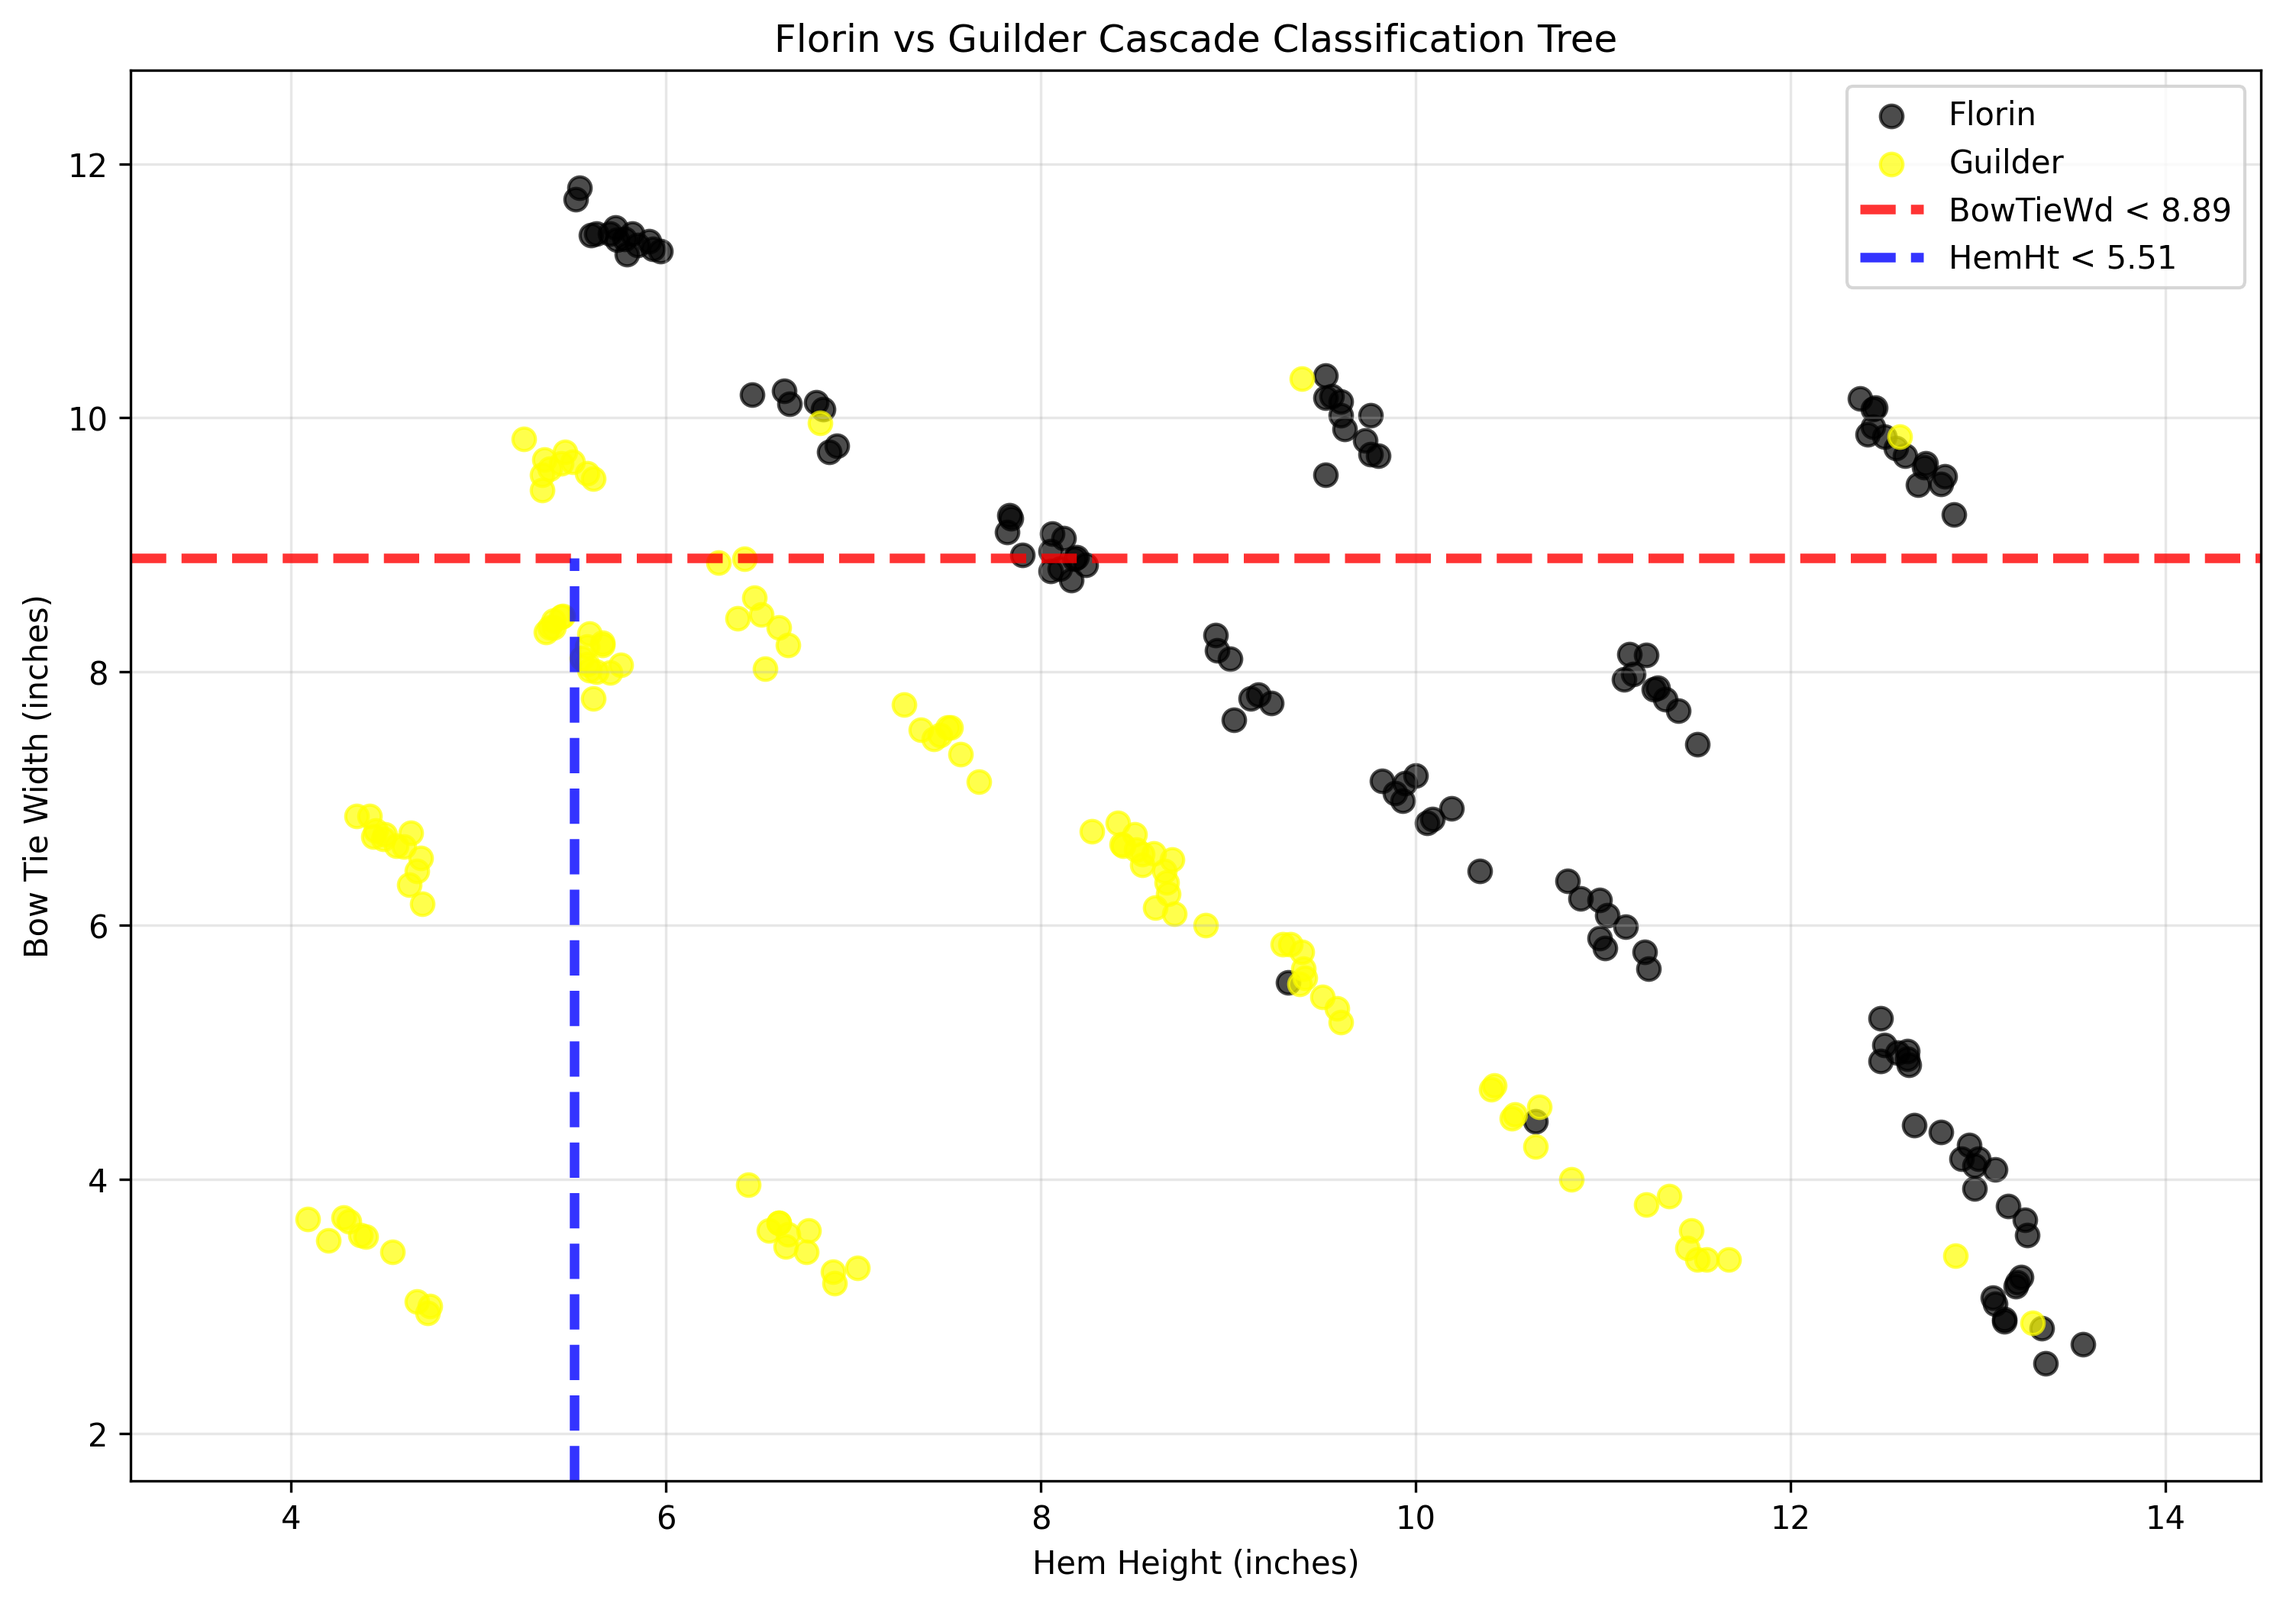
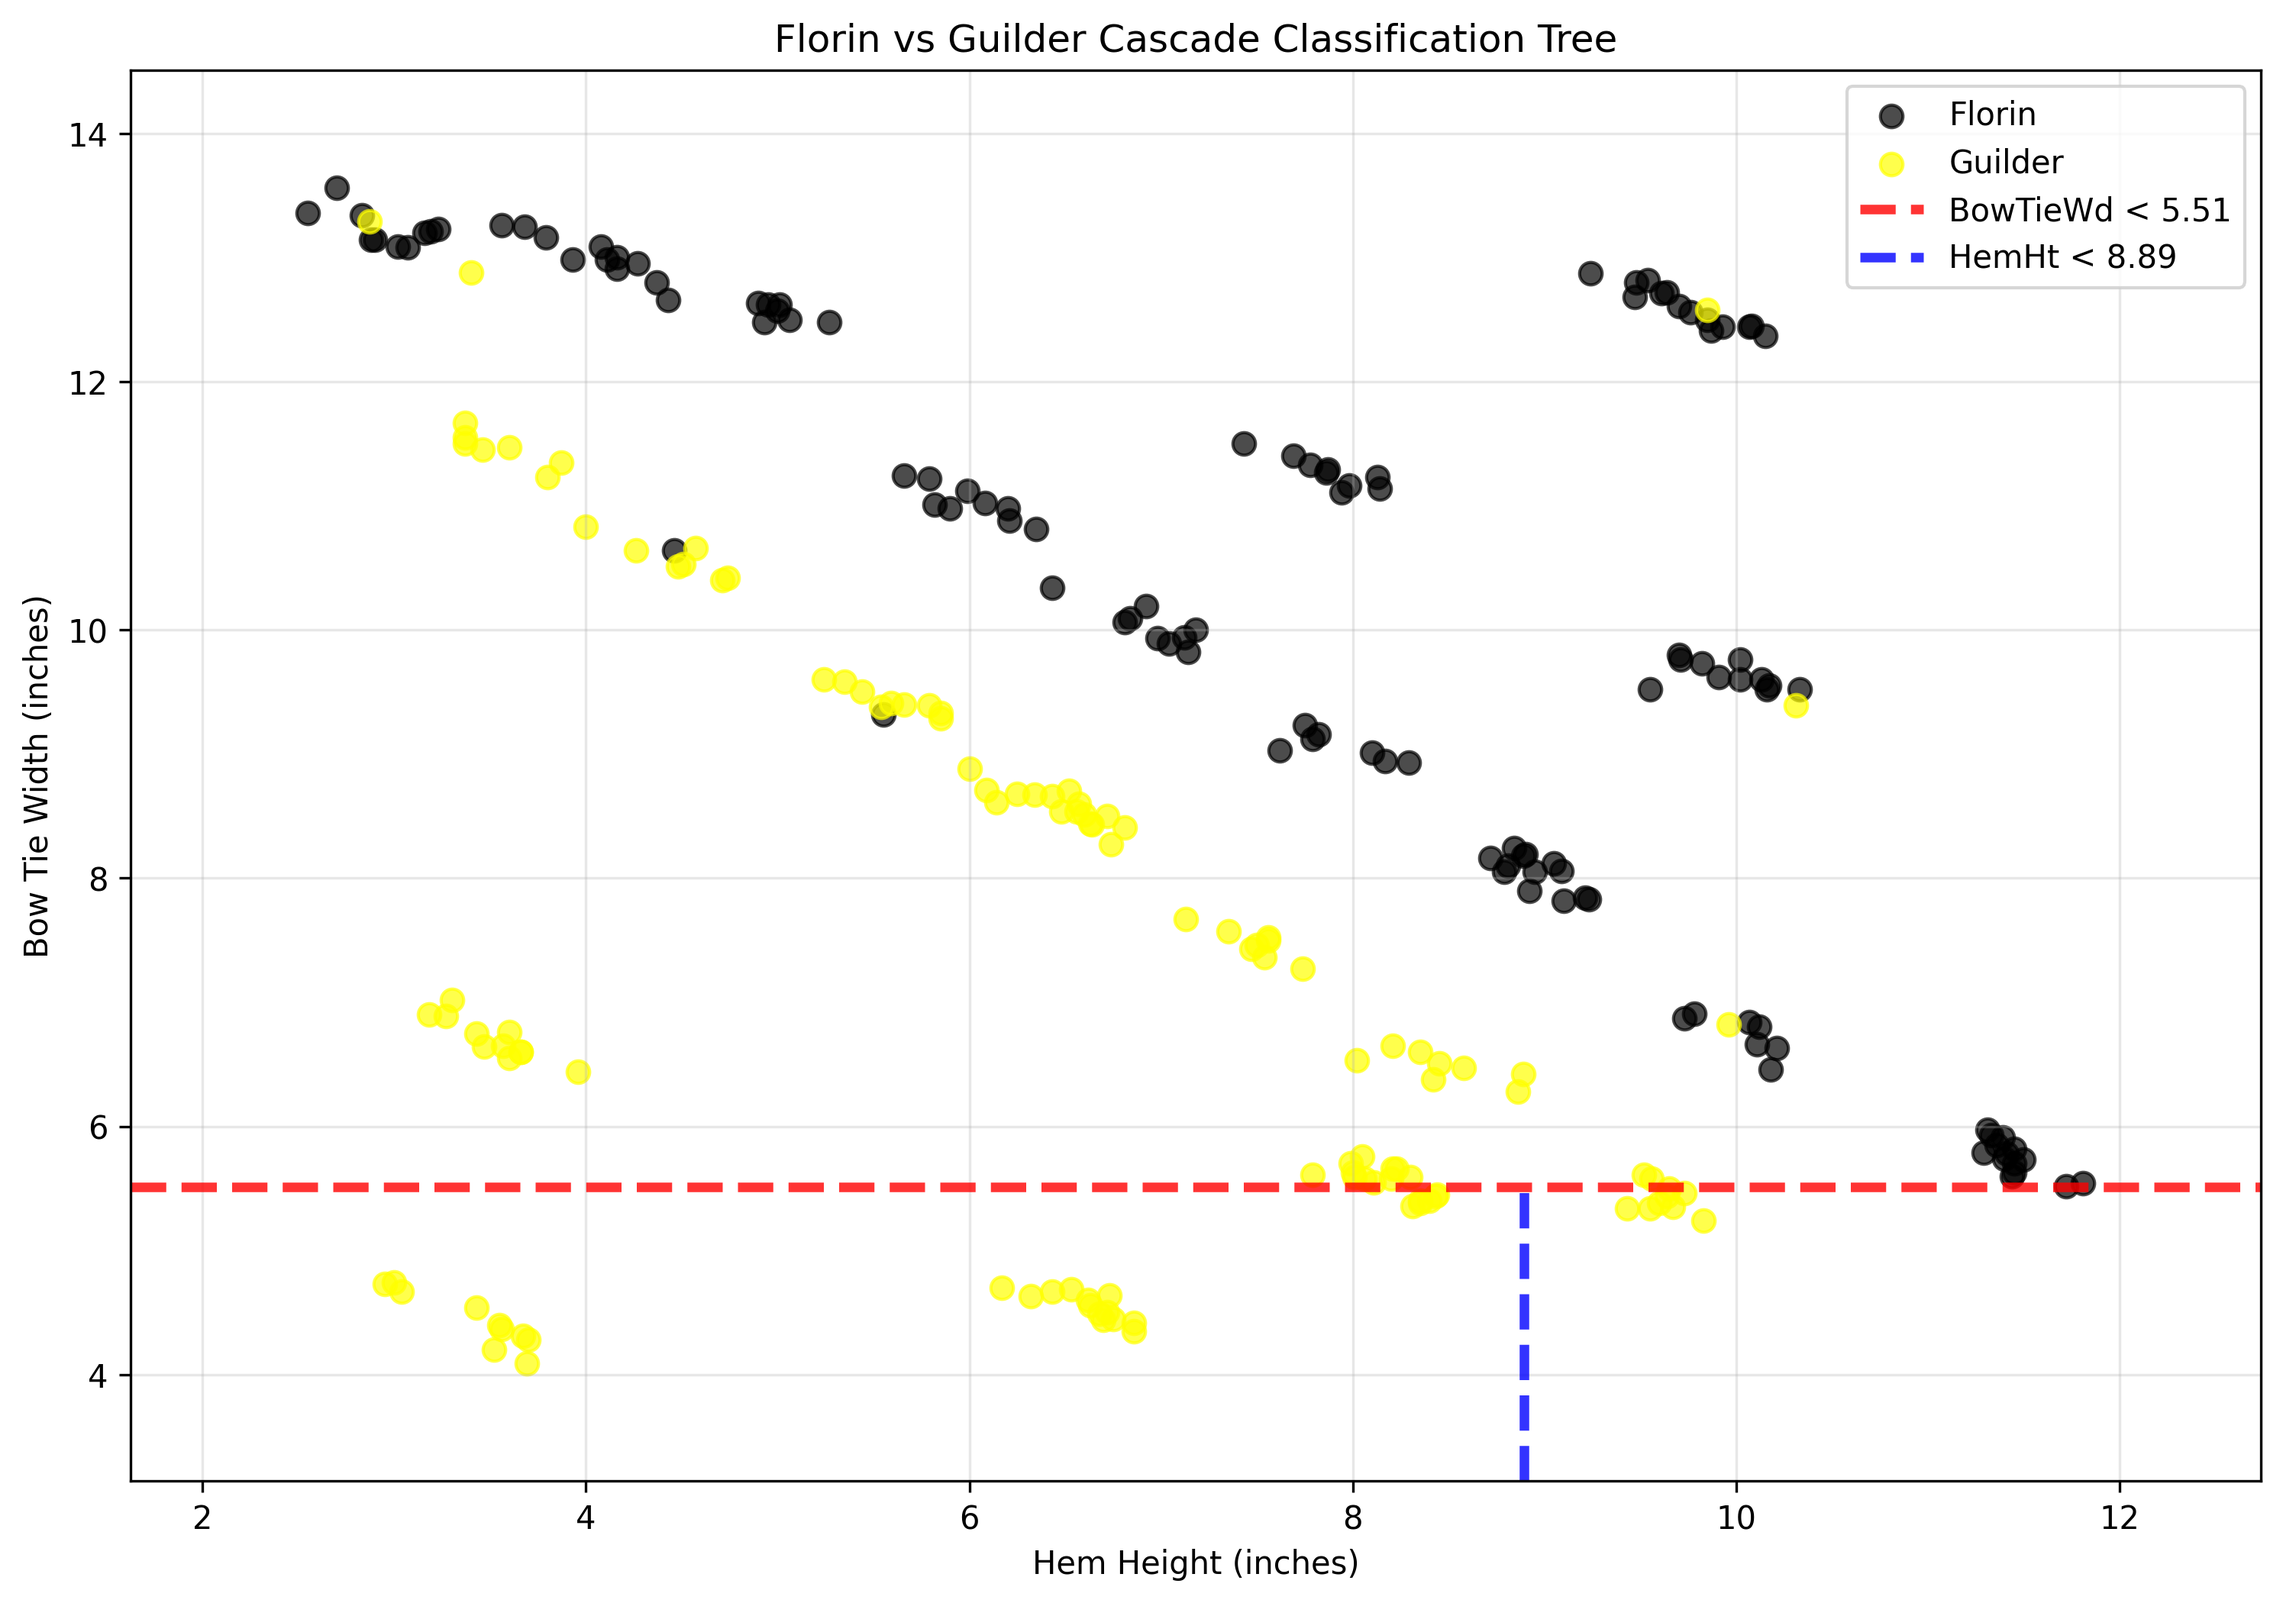
finnializing

diff --git a/cascade_classifier.py b/cascade_classifier.py
@@ -1,42 +1,39 @@
 def classify(HemHt, BowTieWd):
-    if HemHt < 5.510:
+    if BowTieWd < 5.510:
         return "Guilder"
     else:
-        if HemHt < 5.595:
+        if BowTieWd < 5.595:
             return "Guilder"
         else:
-            if HemHt < 5.620:
+            if BowTieWd < 5.620:
                 return "Guilder"
             else:
-                if BowTieWd < 8.895:
-                    if HemHt < 7.860:
+                if HemHt < 8.895:
+                    if BowTieWd < 7.860:
                         return "Guilder"
                     else:
-                        if BowTieWd < 6.825:
-                            if HemHt < 9.830:
+                        if HemHt < 6.825:
+                            if BowTieWd < 9.830:
                                 return "Guilder"
                             else:
-                                if HemHt < 12.075:
-                                    if BowTieWd < 5.200:
-                                        if HemHt < 10.410:
-                                            return "Guilder"
-                                        else:
-                                            if HemHt < 10.465:
-                                                return "Guilder"
-                                            else:
-                                                if HemHt < 10.520:
-                                                    return "Guilder"
-                                                else:
-                                                    if HemHt < 10.650:
-                                                        if HemHt < 10.585:
-                                                            return "Guilder"
-                                                        else:
-                                                            if BowTieWd < 4.360:
-                                                                return "Guilder"
-                                                            else:
-                                                                return "Florin" 
-                                                    else:
+                                if BowTieWd < 12.075:
+                                    if HemHt < 5.200:
+                                        if HemHt < 4.725:
+                                            if HemHt < 4.640:
+                                                if HemHt < 4.540:
+                                                    if HemHt < 4.360:
                                                         return "Guilder"
+                                                    else:
+                                                        if HemHt < 4.470:
+                                                            return "Florin"
+                                                        else:
+                                                            return "Guilder" 
+                                                else:
+                                                    return "Guilder"
+                                            else:
+                                                return "Guilder"
+                                        else:
+                                            return "Guilder"
                                     else:
                                         return "Florin"
                                 else:

diff --git a/HW_05_Chang_Ethan_main.py b/HW_05_Chang_Ethan_main.py
@@ -544,7 +544,7 @@ def main():
         bow_tie_wd = float(row[1]) # Each row bow tie width data (float value)
         country = row[2] # Each row country (label) data
 
-        features.append([bow_tie_wd, hem_ht]) # Append hem height and bow tie width to features list as tuple
+        features.append([hem_ht, bow_tie_wd]) # Append hem height and bow tie width to features list as tuple
         labels.append(country) # Append country to labels list
 
     # Starts the cascade decision tree building process
